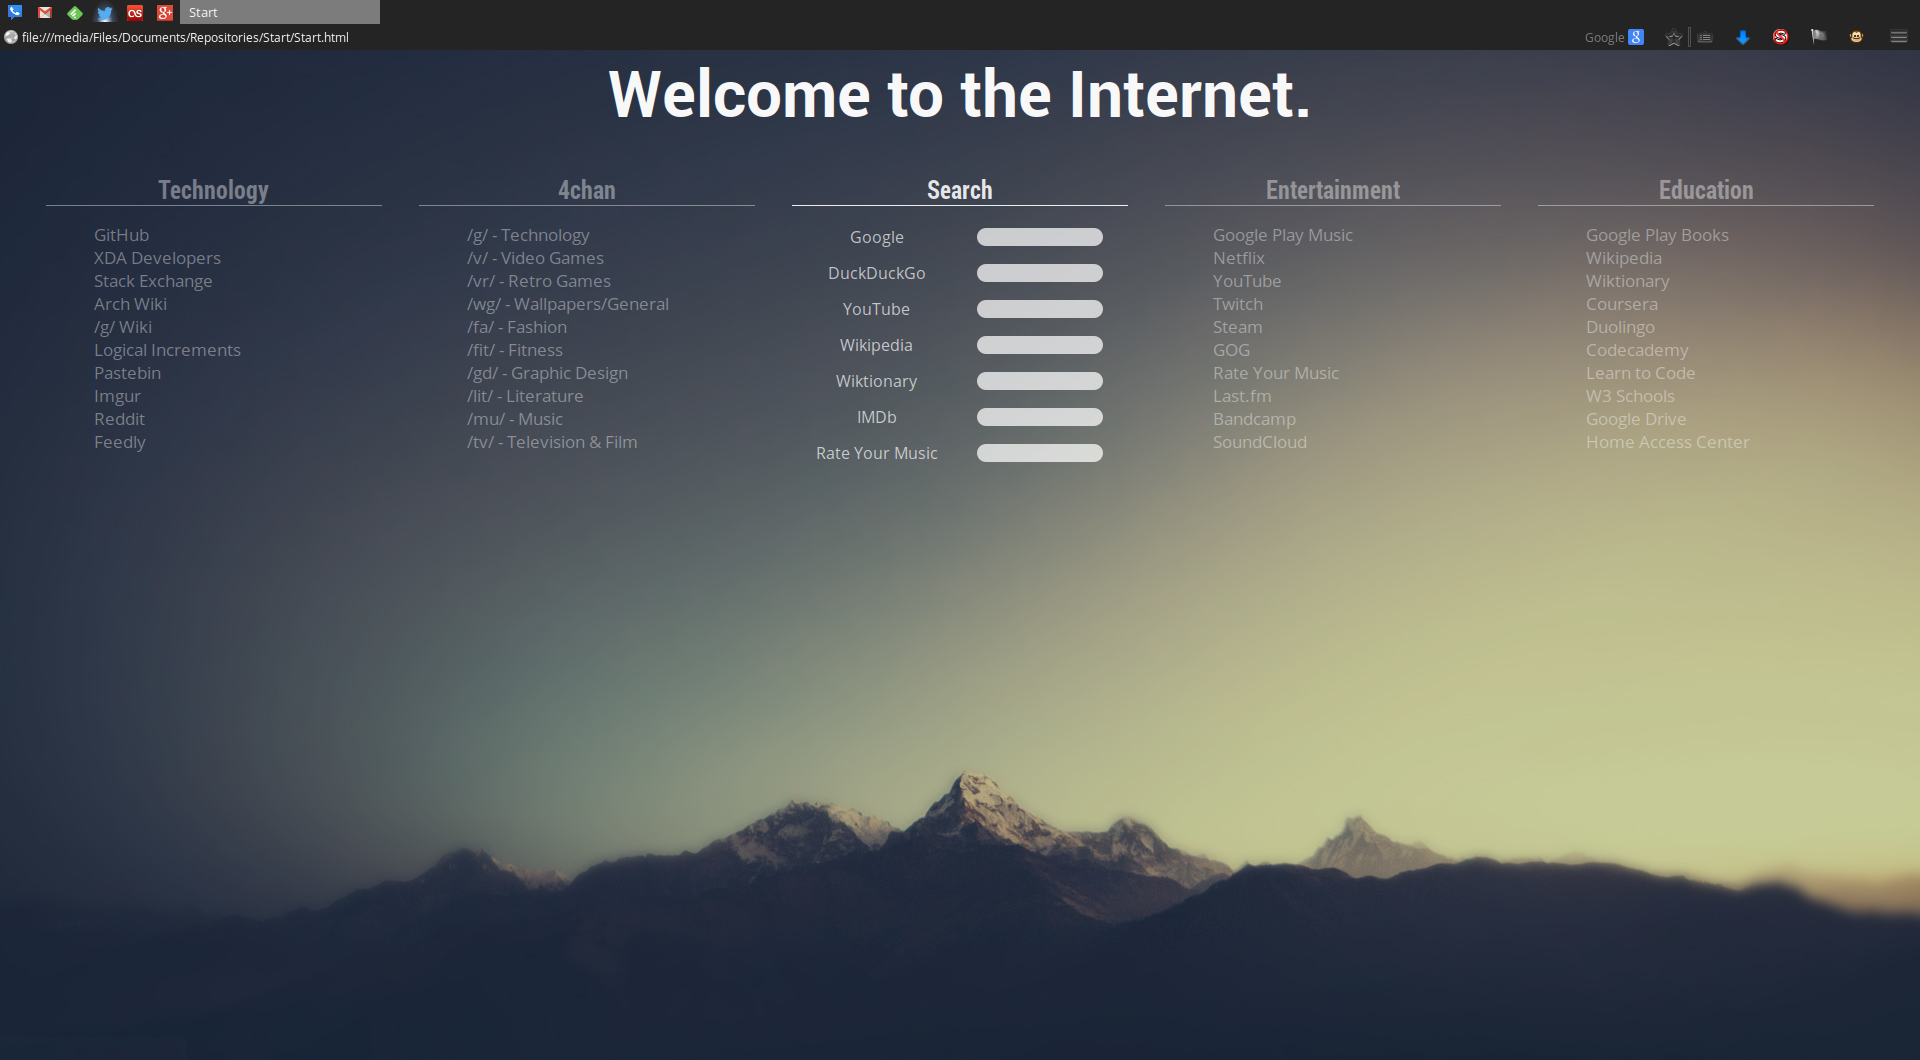
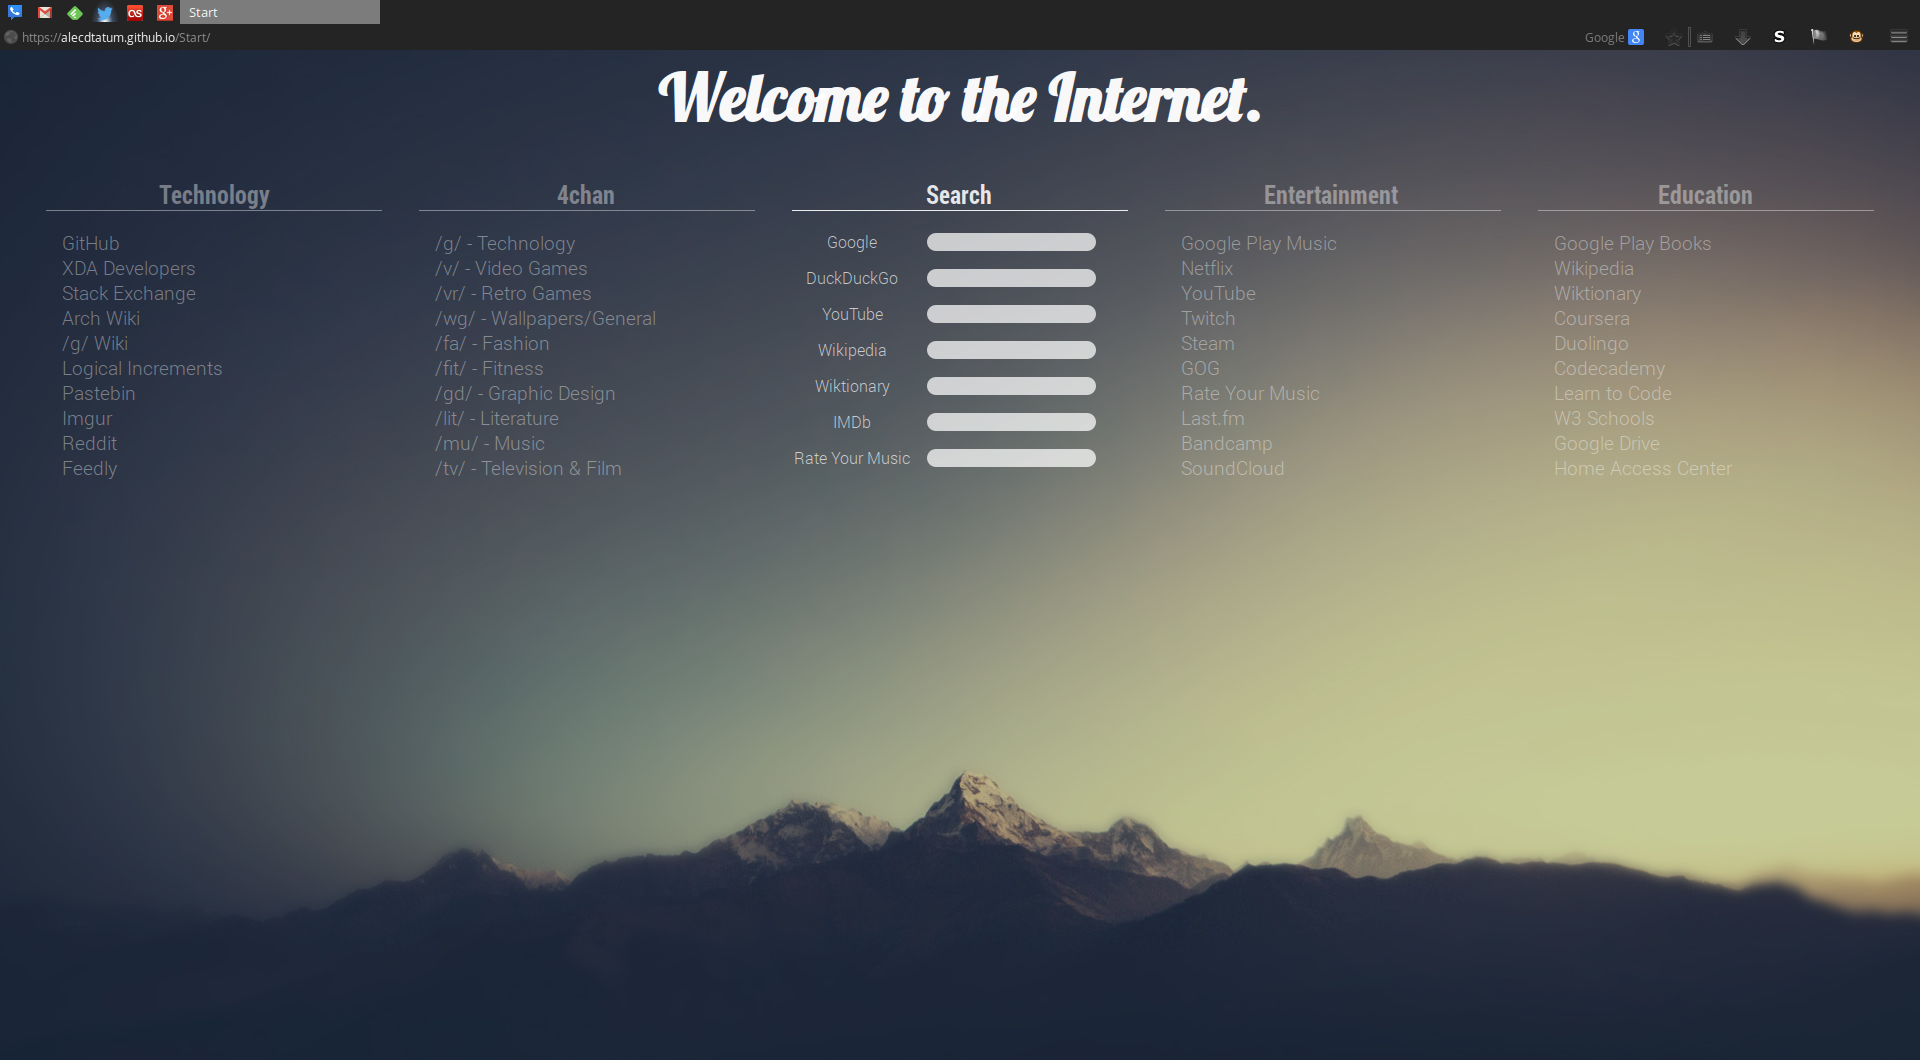
Updated screenshot

diff --git a/Style.css b/Style.css
@@ -1,12 +1,12 @@
 /* Body */
 body {
 	background-image: url("Background");
-	font-family: "Open Sans";
-	font-size: 13pt;
+	font-family: 'Roboto Light', sans-serif;
+	font-size: 14pt;
 	color: #FFFFFF;
 }
 h1 {
-	font-family: "Roboto";
+	font-family: 'Lobster', sans-serif;
 	font-size: 48pt;
 	text-align: center;
 }
@@ -14,12 +14,13 @@ h1 {
 /* Links */
 ul {
 	list-style-type: none;
+	padding-left: 0;
 }
 li {
-	padding: 0 0 0 8px;
+	padding: 0 0 0 16px;
 }
 li:hover {
-	background-color: #FFFFFF;
+	background-color: #EBEBEB;
 	box-shadow: 0 0 8px #FFFFFF;
 	border-radius: 20px;
 }
@@ -58,7 +59,7 @@ a:hover {
 .sbox h4 {
 	margin: 0 0 0 0;
 	text-align: center;
-	font-family: Roboto Condensed;
+	font-family: 'Roboto Condensed', sans-serif;
 	font-size: 19pt;
 	border-bottom: 1px #FFFFFF solid;
 }
@@ -83,13 +84,13 @@ tr, td {
 #Search td:nth-child(1) {
 	float: left;
 	margin-top: -2px;
-	width: 50%;
+	width: 35%;
 	text-align: center;
 	opacity: 0.8;
 }
 #Search td:nth-child(2) {
 	float: right;
-	width: 45%;
+	width: 60%;
 }
 input[type="text"] {
 	padding: 0 0 0 8px;

diff --git a/Start.html b/Start.html
@@ -4,6 +4,9 @@ Credit goes to Twily from http://twily.info for the design idea
 -->
 <head>
 	<link rel="stylesheet" type="text/css" href="Style.css">
+	<link href='http://fonts.googleapis.com/css?family=Roboto:300' rel='stylesheet' type='text/css'>
+	<link href='http://fonts.googleapis.com/css?family=Roboto+Condensed:700' rel='stylesheet' type='text/css'>
+	<link href='http://fonts.googleapis.com/css?family=Lobster' rel='stylesheet' type='text/css'>
 	<title>Start</title>
 </head>
 <body>
